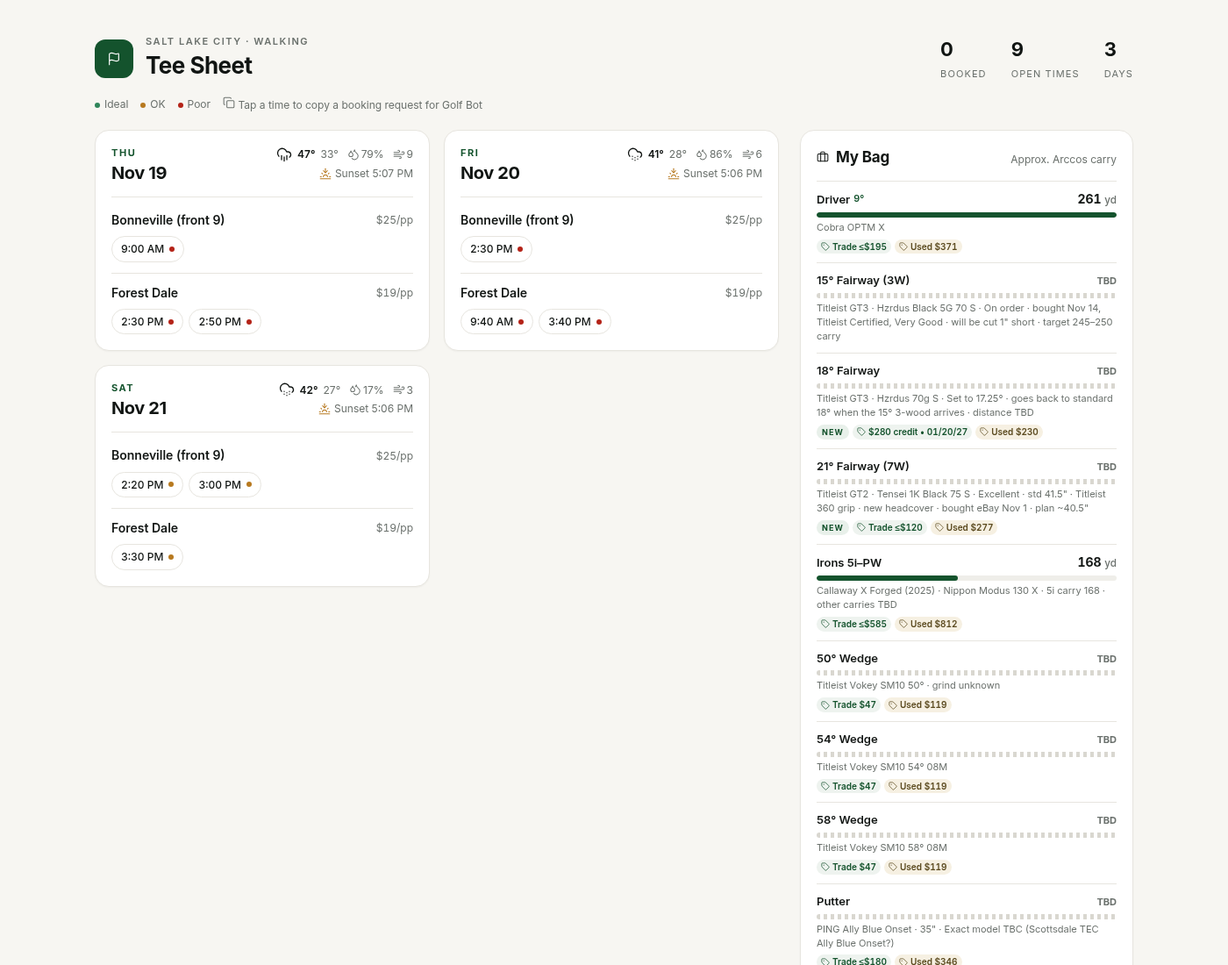
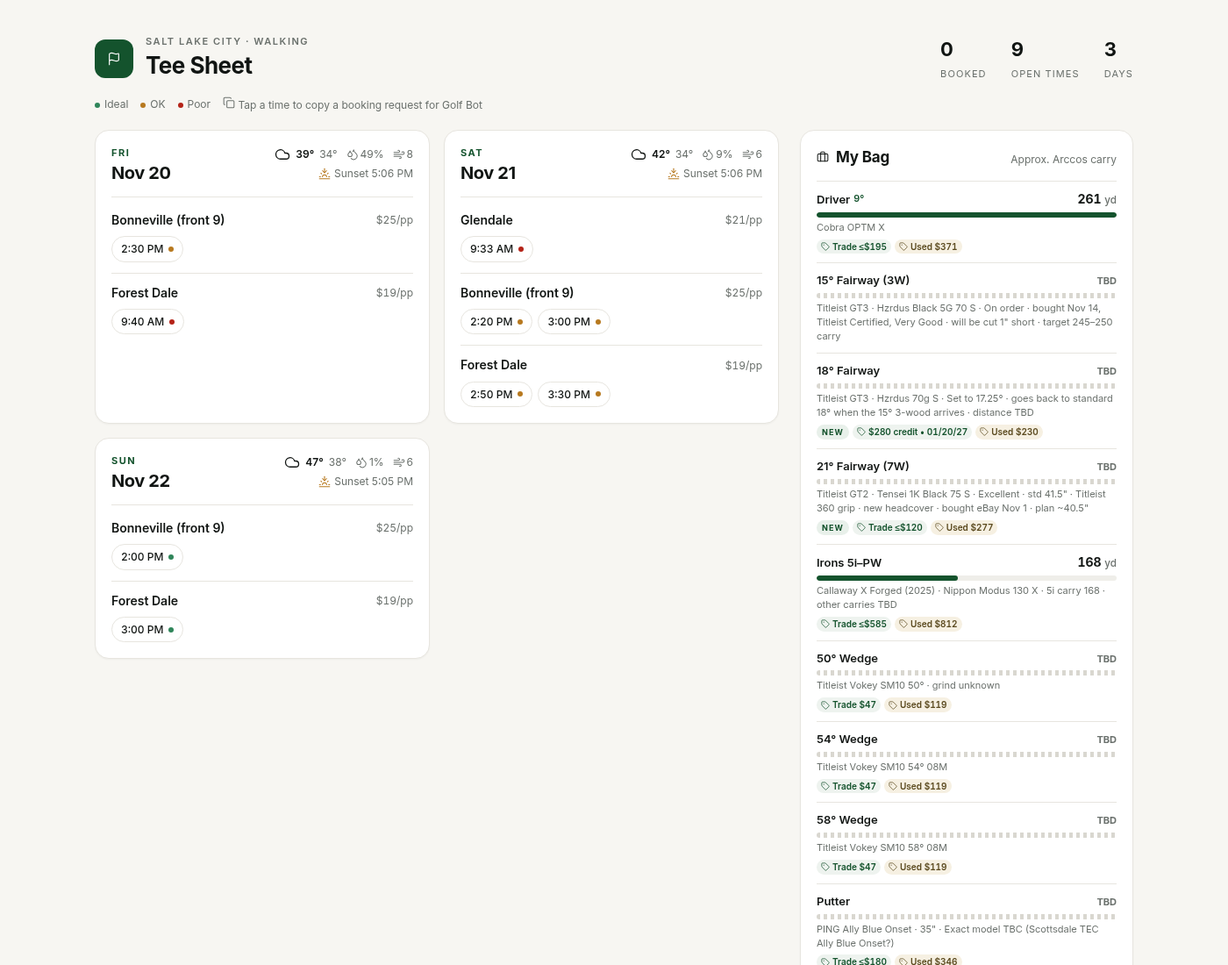
Update schedule 2026-11-19 20:24 MT

diff --git a/index.html b/index.html
@@ -49,8 +49,8 @@ ul{list-style:none;margin:0;padding:0}.ladder{border-top:1px solid var(--ln)}
 <div class="top"><div class="brand"><div class="logo"><i data-lucide="flag" class="ic "></i></div><div><div class="eyebrow">Salt Lake City · Walking</div><h1>Tee Sheet</h1></div></div>
 <div class="stats"><div class="stat"><b>0</b><span>Booked</span></div><div class="stat"><b>9</b><span>Open times</span></div><div class="stat"><b>3</b><span>Days</span></div></div></div>
 <div class="legend"><span><i class="dot ideal"></i>Ideal</span><span><i class="dot ok"></i>OK</span><span><i class="dot poor"></i>Poor</span><span><i data-lucide="copy" class="ic s"></i> Tap a time to copy a booking request for Golf Bot</span></div>
-<div class="layout"><div class="grid"><section class="card day"><header><div><div class="dow">Thu</div><div class="dt">Nov 19</div></div><div class="wxc"><div class="sum" title="🌧 Rain (7a–7p)"><i data-lucide="cloud-rain" class="ic "></i><span class="hi">47°</span><span class="lo">33°</span><span class="m"><i data-lucide="droplets" class="ic s"></i>79%</span><span class="m"><i data-lucide="wind" class="ic s"></i>9</span></div><div class="sun"><i data-lucide="sunset" class="ic s"></i>Sunset 5:07 PM</div></div></header><div class="crs"><div class="row"><span class="cn">Bonneville (front 9)</span><span class="pr">$25/pp</span></div><div class="tts"><button class="tt poor" data-msg="Book Bonneville (front 9) Thu Nov 19 9:00 AM" title="🌧 Rain · 47°F · 79% precip · 9 mph · tap to copy booking request" aria-label="Copy: Book Bonneville (front 9) Thu Nov 19 9:00 AM" onclick="cp(this)"><span>9:00 AM</span><i class="dot"></i></button></div></div><div class="crs"><div class="row"><span class="cn">Forest Dale</span><span class="pr">$19/pp</span></div><div class="tts"><button class="tt poor" data-msg="Book Forest Dale Thu Nov 19 2:30 PM" title="🌧 Rain · 47°F · 79% precip · 9 mph · tap to copy booking request" aria-label="Copy: Book Forest Dale Thu Nov 19 2:30 PM" onclick="cp(this)"><span>2:30 PM</span><i class="dot"></i></button><button class="tt poor" data-msg="Book Forest Dale Thu Nov 19 2:50 PM" title="🌧 Rain · 47°F · 79% precip · 9 mph · tap to copy booking request" aria-label="Copy: Book Forest Dale Thu Nov 19 2:50 PM" onclick="cp(this)"><span>2:50 PM</span><i class="dot"></i></button></div></div></section><section class="card day"><header><div><div class="dow">Fri</div><div class="dt">Nov 20</div></div><div class="wxc"><div class="sum" title="🌨 Snow (7a–7p)"><i data-lucide="cloud-snow" class="ic "></i><span class="hi">41°</span><span class="lo">28°</span><span class="m"><i data-lucide="droplets" class="ic s"></i>86%</span><span class="m"><i data-lucide="wind" class="ic s"></i>6</span></div><div class="sun"><i data-lucide="sunset" class="ic s"></i>Sunset 5:06 PM</div></div></header><div class="crs"><div class="row"><span class="cn">Bonneville (front 9)</span><span class="pr">$25/pp</span></div><div class="tts"><button class="tt poor" data-msg="Book Bonneville (front 9) Fri Nov 20 2:30 PM" title="🌨 Snow · 41°F · 86% precip · 6 mph · tap to copy booking request" aria-label="Copy: Book Bonneville (front 9) Fri Nov 20 2:30 PM" onclick="cp(this)"><span>2:30 PM</span><i class="dot"></i></button></div></div><div class="crs"><div class="row"><span class="cn">Forest Dale</span><span class="pr">$19/pp</span></div><div class="tts"><button class="tt poor" data-msg="Book Forest Dale Fri Nov 20 9:40 AM" title="🌨 Snow · 41°F · 86% precip · 6 mph · tap to copy booking request" aria-label="Copy: Book Forest Dale Fri Nov 20 9:40 AM" onclick="cp(this)"><span>9:40 AM</span><i class="dot"></i></button><button class="tt poor" data-msg="Book Forest Dale Fri Nov 20 3:40 PM" title="🌨 Snow · 41°F · 86% precip · 6 mph · tap to copy booking request" aria-label="Copy: Book Forest Dale Fri Nov 20 3:40 PM" onclick="cp(this)"><span>3:40 PM</span><i class="dot"></i></button></div></div></section><section class="card day"><header><div><div class="dow">Sat</div><div class="dt">Nov 21</div></div><div class="wxc"><div class="sum" title="🌨 Snow (7a–7p)"><i data-lucide="cloud-snow" class="ic "></i><span class="hi">42°</span><span class="lo">27°</span><span class="m"><i data-lucide="droplets" class="ic s"></i>17%</span><span class="m"><i data-lucide="wind" class="ic s"></i>3</span></div><div class="sun"><i data-lucide="sunset" class="ic s"></i>Sunset 5:06 PM</div></div></header><div class="crs"><div class="row"><span class="cn">Bonneville (front 9)</span><span class="pr">$25/pp</span></div><div class="tts"><button class="tt ok" data-msg="Book Bonneville (front 9) Sat Nov 21 2:20 PM" title="🌨 Snow · 42°F · 17% precip · 3 mph · tap to copy booking request" aria-label="Copy: Book Bonneville (front 9) Sat Nov 21 2:20 PM" onclick="cp(this)"><span>2:20 PM</span><i class="dot"></i></button><button class="tt ok" data-msg="Book Bonneville (front 9) Sat Nov 21 3:00 PM" title="🌨 Snow · 42°F · 17% precip · 3 mph · tap to copy booking request" aria-label="Copy: Book Bonneville (front 9) Sat Nov 21 3:00 PM" onclick="cp(this)"><span>3:00 PM</span><i class="dot"></i></button></div></div><div class="crs"><div class="row"><span class="cn">Forest Dale</span><span class="pr">$19/pp</span></div><div class="tts"><button class="tt ok" data-msg="Book Forest Dale Sat Nov 21 3:30 PM" title="🌨 Snow · 42°F · 17% precip · 3 mph · tap to copy booking request" aria-label="Copy: Book Forest Dale Sat Nov 21 3:30 PM" onclick="cp(this)"><span>3:30 PM</span><i class="dot"></i></button></div></div></section></div><section class="card bag"><header><h2><i data-lucide="briefcase" class="ic s"></i>My Bag</h2><span class="muted">Approx. Arccos carry</span></header><ul class="ladder"><li class="lad"><div class="l1"><div class="cname">Driver <small>9°</small></div><div class="yd">261 <small>yd</small></div></div><div class="bar"><span style="width:100%"></span></div><div class="muted">Cobra OPTM X</div><div class=bdg><span class="val" title="On in Two trade-in (up-to ceiling) · Cobra OPTM X driver · 2026-11-16"><i data-lucide="tag" class="ic xs"></i>Trade ≤$195</span><span class="val used" title="2nd Swing used OPTM X Stiff: 9° Mint $379.99 (Kai&#x27;li White 60), 10.5° Above Average $362.99 · 2026-11-02"><i data-lucide="tag" class="ic xs"></i>Used $371</span></div></li><li class="lad"><div class="l1"><div class="cname">15° Fairway (3W)</div><div class="yd muted">TBD</div></div><div class="bar tbd"><span></span></div><div class="muted">Titleist GT3 · Hzrdus Black 5G 70 S · On order · bought Nov 14, Titleist Certified, Very Good · will be cut 1&quot; short · target 245–250 carry</div></li><li class="lad"><div class="l1"><div class="cname">18° Fairway</div><div class="yd muted">TBD</div></div><div class="bar tbd"><span></span></div><div class="muted">Titleist GT3 · Hzrdus 70g S · Set to 17.25° · goes back to standard 18° when the 15° 3-wood arrives · distance TBD</div><div class=bdg><span class="pill sm">New</span><span class="val" title="Uinta Golf 90-day guarantee, bought Oct 22, 2026 · 2026-10-22"><i data-lucide="tag" class="ic xs"></i>$280 credit • 01/20/27</span><span class="val used" title="Global Golf used GT3 fairway Excellent $229.99; eBay sold GT3 18° 5W median $231 (Teeworth, 90 days) · 2026-10-26"><i data-lucide="tag" class="ic xs"></i>Used $230</span></div></li><li class="lad"><div class="l1"><div class="cname">21° Fairway (7W)</div><div class="yd muted">TBD</div></div><div class="bar tbd"><span></span></div><div class="muted">Titleist GT2 · Tensei 1K Black 75 S · Excellent · std 41.5&quot; · Titleist 360 grip · new headcover · bought eBay Nov 1 · plan ~40.5&quot;</div><div class=bdg><span class="pill sm">New</span><span class="val" title="On in Two trade-in (up-to ceiling, excellent) · Titleist GT2 fairway · 2026-11-16"><i data-lucide="tag" class="ic xs"></i>Trade ≤$120</span><span class="val used" title="Avg of Global Golf GT2 Very Good $264.99 and Next Round GT2 Excellent $289.99; eBay sold median $200 (45 sales, Face Value Golf) · 2026-10-26"><i data-lucide="tag" class="ic xs"></i>Used $277</span></div></li><li class="lad"><div class="l1"><div class="cname">Irons 5i–PW</div><div class="yd">168 <small>yd</small></div></div><div class="bar"><span style="width:47%"></span></div><div class="muted">Callaway X Forged (2025) · Nippon Modus 130 X · 5i carry 168 · other carries TBD</div><div class=bdg><span class="val" title="On in Two trade-in (up-to ceiling) · Callaway 2025 X Forged iron set; set composition/shaft not specified, so 5i–PW offer may differ · 2026-11-16"><i data-lucide="tag" class="ic xs"></i>Trade ≤$585</span><span class="val used" title="FairwayWire eBay sold avg, X Forged 2025 set (18 sales, mostly 4-PW, mixed shafts); Excellent/Very Good sales $986–$1,200 · 2026-10-26"><i data-lucide="tag" class="ic xs"></i>Used $812</span></div></li><li class="lad"><div class="l1"><div class="cname">50° Wedge</div><div class="yd muted">TBD</div></div><div class="bar tbd"><span></span></div><div class="muted">Titleist Vokey SM10 50° · grind unknown</div><div class=bdg><span class="val" title="2nd Swing store credit via Face Value Golf (SM10 family, avg cond., checked Nov 14); best cash $45–47 · 2026-11-16"><i data-lucide="tag" class="ic xs"></i>Trade $47</span><span class="val used" title="Titleist Certified Pre-Owned SM10 Excellent $119 · 2026-10-26"><i data-lucide="tag" class="ic xs"></i>Used $119</span></div></li><li class="lad"><div class="l1"><div class="cname">54° Wedge</div><div class="yd muted">TBD</div></div><div class="bar tbd"><span></span></div><div class="muted">Titleist Vokey SM10 54° 08M</div><div class=bdg><span class="val" title="2nd Swing store credit via Face Value Golf (SM10 family, avg cond., checked Nov 14); best cash $45–47 · 2026-11-16"><i data-lucide="tag" class="ic xs"></i>Trade $47</span><span class="val used" title="Titleist Certified Pre-Owned SM10 Excellent $119 · 2026-10-26"><i data-lucide="tag" class="ic xs"></i>Used $119</span></div></li><li class="lad"><div class="l1"><div class="cname">58° Wedge</div><div class="yd muted">TBD</div></div><div class="bar tbd"><span></span></div><div class="muted">Titleist Vokey SM10 58° 08M</div><div class=bdg><span class="val" title="2nd Swing store credit via Face Value Golf (SM10 family, avg cond., checked Nov 14); best cash $45–47 · 2026-11-16"><i data-lucide="tag" class="ic xs"></i>Trade $47</span><span class="val used" title="Titleist Certified Pre-Owned SM10 Excellent $119 · 2026-10-26"><i data-lucide="tag" class="ic xs"></i>Used $119</span></div></li><li class="lad"><div class="l1"><div class="cname">Putter</div><div class="yd muted">TBD</div></div><div class="bar tbd"><span></span></div><div class="muted">PING Ally Blue Onset · 35&quot; · Exact model TBC (Scottsdale TEC Ally Blue Onset?)</div><div class=bdg><span class="val" title="On in Two trade-in (up-to ceiling) · Scottsdale TEC Ally Blue Onset; PLD SE Ally Blue 4 Onset $185 · 2026-11-16"><i data-lucide="tag" class="ic xs"></i>Trade ≤$180</span><span class="val used" title="ClubChecks used target, Scottsdale TEC Ally Blue Onset; Carl&#x27;s Golfland 35&quot; Very Good $349.99 · 2026-10-26"><i data-lucide="tag" class="ic xs"></i>Used $346</span></div></li></ul><div class="subs"><div class="sub"><h3><i data-lucide="repeat" class="ic s"></i>Flagged to replace</h3><ul class="lst replace"><li><div class="it"><div class="l1"><div class="cname">Callaway X Forged irons</div></div><div class="muted">Considering trade for P7CB heads, same Modus 130 X</div><div class=bdg><span class="val" title="Jason: trade-in guarantee value, trade by Nov 15, 2026 (deadline approx., per Jason) · 2026-10-26"><i data-lucide="tag" class="ic xs"></i>$1400 credit • 11/15/26</span><span class="val used" title="FairwayWire eBay sold avg, X Forged 2025 set (18 sales, mostly 4-PW, mixed shafts); Excellent/Very Good sales $986–$1,200 · 2026-10-26"><i data-lucide="tag" class="ic xs"></i>Used $812</span></div></div></li></ul></div><div class="sub"><h3><i data-lucide="pause-circle" class="ic s"></i>Sidelined</h3><ul class="lst sidelined"><li><div class="it"><div class="l1"><div class="cname">Odyssey Jailbird Mini · slant neck 35&quot;</div></div><div class="muted">Keep, go back to, or trade?</div><div class=bdg><span class="val" title="On in Two trade-in ceilings: Ai-ONE Jailbird Mini S $95 – Ai-DUAL Jailbird Mini $105 (exact version TBC) · 2026-11-16"><i data-lucide="tag" class="ic xs"></i>Trade $95–105</span><span class="val used" title="Golf Club Index avg sold, Odyssey Ai-ONE Jailbird Mini (exact version TBC) · 2026-10-26"><i data-lucide="tag" class="ic xs"></i>Used $194</span></div></div></li><li><div class="it"><div class="l1"><div class="cname">3 Hybrid</div><div class=yd>195 <small>yd</small></div></div><div class="muted">Sidelined Nov 8, 2026 · was flagged to come out when the 21° GT goes in</div><div class=bdg><span class="val" title="On in Two trade-in (up-to ceiling) · 2026-11-16"><i data-lucide="tag" class="ic xs"></i>Trade ≤$70</span><span class="val used" title="Face Value Golf typical used asking, Paradym Super hybrid Above Average grade (Callaway Pre-Owned from $120 Avg) · 2026-10-26"><i data-lucide="tag" class="ic xs"></i>Used $178</span></div></div></li><li><div class="it"><div class="l1"><div class="cname">5 Hybrid</div><div class=yd>186 <small>yd</small></div></div><div class="muted">Sidelined Nov 15, 2026 · comes out when the 15° 3-wood goes in</div><div class=bdg><span class="val" title="On in Two trade-in (up-to ceiling) · 2026-11-16"><i data-lucide="tag" class="ic xs"></i>Trade ≤$70</span><span class="val used" title="Face Value Golf typical used asking, Paradym Super hybrid Above Average grade (Callaway Pre-Owned from $120 Avg) · 2026-10-26"><i data-lucide="tag" class="ic xs"></i>Used $178</span></div></div></li></ul></div><div class="sub"><h3><i data-lucide="plus-circle" class="ic s"></i>Interested in adding</h3><ul class="lst add"><li><div class="it"><div class="l1"><div class="cname">TaylorMade P7CB irons</div></div><div class="muted">Same Modus 130 X shafts</div><div class=bdg><span class="val" title="Face Value Golf: best cash offer, iGolf Value Guide, 7-club set, Average ($61.50/club), checked Oct 11 · 2026-10-26"><i data-lucide="tag" class="ic xs"></i>Trade $431 set</span><span class="val used" title="Face Value Golf typical used asking, 7-club set, median of 44 listings (Average or better), checked Oct 11; Global Golf Average 4-PW $760 · 2026-10-26"><i data-lucide="tag" class="ic xs"></i>Used $859</span></div></div></li><li><div class="it"><div class="l1"><div class="cname">Titleist Vokey SM10 46° 10F</div></div><div class="muted">Backup PW option if the X Forged PW doesn&#x27;t work out or gets damaged; not in the bag</div><div class=bdg><span class="val" title="2nd Swing store credit via Face Value Golf (SM10 family, avg cond.) · 2026-10-23"><i data-lucide="tag" class="ic xs"></i>Trade $47</span><span class="val used" title="Titleist Certified Pre-Owned SM10 Excellent $119 · 2026-10-26"><i data-lucide="tag" class="ic xs"></i>Used $119</span></div></div></li></ul></div><div class="sub"><h3><i data-lucide="archive" class="ic s"></i>Retired</h3><ul class="lst retired"><li><div class="it"><div class="l1"><div class="cname">Paradym Ai Smoke Max 3W</div></div><div class="muted">~211 yd, right miss · traded in for GT3 18° at Uinta Golf, Oct 2026</div></div></li></ul></div></div></section></div><section class="card lenchart"><header><h2><i data-lucide="ruler" class="ic s"></i>Titleist GT/GTS woods + GT1 hybrid lengths</h2></header><div class="tw"><table><thead><tr><th>Loft</th><th>Club</th><th>Models</th><th>Std</th><th>−½"</th><th>−1"</th></tr></thead><tbody><tr><td>13.5°</td><td>3-wood</td><td class="muted">GT2, GTS2</td><td>43"</td><td>42.5"</td><td>42"</td></tr><tr><td>15°</td><td>3-wood</td><td class="muted">GT1, GT2, GT3, GTS</td><td>43"</td><td>42.5"</td><td>42"</td></tr><tr><td>16.5°</td><td>4-wood</td><td class="muted">GT2, GT3, GTS</td><td>43"</td><td>42.5"</td><td>42"</td></tr><tr class="inbag"><td>18°</td><td>5-wood (mine, GT3) <span class="mtag">In bag</span></td><td class="muted">GT1, GT2, GT3, GTS</td><td>42"</td><td class=hl>41.5"</td><td>41"</td></tr><tr><td>20°</td><td>4-hybrid</td><td class="muted">GT1 hybrid</td><td>40.5"</td><td>40"</td><td>39.5"</td></tr><tr class="inbag"><td>21°</td><td>7-wood <span class="mtag">In bag</span></td><td class="muted">GT1, GT2, GTS</td><td>41.5"</td><td>41"</td><td class=hl>40.5"</td></tr><tr class="target"><td>23°</td><td>5-hybrid <span class="mtag">Target</span> <span class="muted">set to 24.5°</span></td><td class="muted">GT1 hybrid</td><td>40"</td><td>39.5"</td><td>39"</td></tr><tr class="target"><td>24°</td><td>9-wood <span class="mtag">Target</span></td><td class="muted">GT1 only</td><td>41"</td><td>40.5"</td><td class=hl>40"</td></tr><tr><td>26°</td><td>6-hybrid</td><td class="muted">GT1 hybrid</td><td>39.5"</td><td>39"</td><td>38.5"</td></tr><tr><td>29°</td><td>7-hybrid</td><td class="muted">GT1 hybrid</td><td>39"</td><td>38.5"</td><td>38"</td></tr></tbody></table></div><p class="muted">Row marks: In bag (GT3 18° 5-wood, GT2 21° 7-wood set 22.5°) and Target (GT1 23° hybrid set 24.5°, GT1 24° 9-wood). Highlighted cells = shortening plan in ~½" steps (5-wood 41.5", 7-wood ~40.5" or 9-wood ~40"). GT1 23° hybrid is already 40" stock. Add ~2g head weight per ½" cut. GT1 hybrids ship with a .335" fairway tip unless custom-ordered with .370". Source: Titleist specs.</p></section>
-<div class="foot"><i data-lucide="refresh-cw" class="ic s"></i>Updated Thu Nov 19 · 10:56 AM MT · Checked 7:30 AM MST Nov 19. Chronogolf Upcoming empty. Thursday: Bonneville 9:00 AM (single only); Forest Dale 2:30 PM (1–2) and 2:50 PM (single only); Glendale is sold out. Friday: Bonneville 2:30 PM (single only); Forest Dale 9:40 AM and 3:40 PM (1–2); Glendale only has 2+ slots. Saturday: Bonneville 2:20 PM and 3:00 PM (1–2); Forest Dale 3:30 PM (1–2); Glendale only has 2+ slots. Mick Riley is closed for the off season. Walking vs cart not shown. ForeUp unverified. · Weather: NWS</div></div>
+<div class="layout"><div class="grid"><section class="card day"><header><div><div class="dow">Fri</div><div class="dt">Nov 20</div></div><div class="wxc"><div class="sum" title="☁ Overcast (7a–7p)"><i data-lucide="cloud" class="ic "></i><span class="hi">39°</span><span class="lo">34°</span><span class="m"><i data-lucide="droplets" class="ic s"></i>49%</span><span class="m"><i data-lucide="wind" class="ic s"></i>8</span></div><div class="sun"><i data-lucide="sunset" class="ic s"></i>Sunset 5:06 PM</div></div></header><div class="crs"><div class="row"><span class="cn">Bonneville (front 9)</span><span class="pr">$25/pp</span></div><div class="tts"><button class="tt ok" data-msg="Book Bonneville (front 9) Fri Nov 20 2:30 PM" title="☁ Overcast · 39°F · 14% precip · 5 mph · tap to copy booking request" aria-label="Copy: Book Bonneville (front 9) Fri Nov 20 2:30 PM" onclick="cp(this)"><span>2:30 PM</span><i class="dot"></i></button></div></div><div class="crs"><div class="row"><span class="cn">Forest Dale</span><span class="pr">$19/pp</span></div><div class="tts"><button class="tt poor" data-msg="Book Forest Dale Fri Nov 20 9:40 AM" title="☁ Overcast · 38°F · 22% precip · 2 mph · tap to copy booking request" aria-label="Copy: Book Forest Dale Fri Nov 20 9:40 AM" onclick="cp(this)"><span>9:40 AM</span><i class="dot"></i></button></div></div></section><section class="card day"><header><div><div class="dow">Sat</div><div class="dt">Nov 21</div></div><div class="wxc"><div class="sum" title="☁ Overcast (7a–7p)"><i data-lucide="cloud" class="ic "></i><span class="hi">42°</span><span class="lo">34°</span><span class="m"><i data-lucide="droplets" class="ic s"></i>9%</span><span class="m"><i data-lucide="wind" class="ic s"></i>6</span></div><div class="sun"><i data-lucide="sunset" class="ic s"></i>Sunset 5:06 PM</div></div></header><div class="crs"><div class="row"><span class="cn">Glendale</span><span class="pr">$21/pp</span></div><div class="tts"><button class="tt poor" data-msg="Book Glendale Sat Nov 21 9:33 AM" title="☁ Overcast · 36°F · 9% precip · 3 mph · tap to copy booking request" aria-label="Copy: Book Glendale Sat Nov 21 9:33 AM" onclick="cp(this)"><span>9:33 AM</span><i class="dot"></i></button></div></div><div class="crs"><div class="row"><span class="cn">Bonneville (front 9)</span><span class="pr">$25/pp</span></div><div class="tts"><button class="tt ok" data-msg="Book Bonneville (front 9) Sat Nov 21 2:20 PM" title="☀ Clear · 41°F · 1% precip · 3 mph · tap to copy booking request" aria-label="Copy: Book Bonneville (front 9) Sat Nov 21 2:20 PM" onclick="cp(this)"><span>2:20 PM</span><i class="dot"></i></button><button class="tt ok" data-msg="Book Bonneville (front 9) Sat Nov 21 3:00 PM" title="🌤 Mostly clear · 42°F · 1% precip · 4 mph · tap to copy booking request" aria-label="Copy: Book Bonneville (front 9) Sat Nov 21 3:00 PM" onclick="cp(this)"><span>3:00 PM</span><i class="dot"></i></button></div></div><div class="crs"><div class="row"><span class="cn">Forest Dale</span><span class="pr">$19/pp</span></div><div class="tts"><button class="tt ok" data-msg="Book Forest Dale Sat Nov 21 2:50 PM" title="☀ Clear · 41°F · 1% precip · 3 mph · tap to copy booking request" aria-label="Copy: Book Forest Dale Sat Nov 21 2:50 PM" onclick="cp(this)"><span>2:50 PM</span><i class="dot"></i></button><button class="tt ok" data-msg="Book Forest Dale Sat Nov 21 3:30 PM" title="🌤 Mostly clear · 42°F · 1% precip · 4 mph · tap to copy booking request" aria-label="Copy: Book Forest Dale Sat Nov 21 3:30 PM" onclick="cp(this)"><span>3:30 PM</span><i class="dot"></i></button></div></div></section><section class="card day"><header><div><div class="dow">Sun</div><div class="dt">Nov 22</div></div><div class="wxc"><div class="sum" title="☁ Overcast (7a–7p)"><i data-lucide="cloud" class="ic "></i><span class="hi">47°</span><span class="lo">38°</span><span class="m"><i data-lucide="droplets" class="ic s"></i>1%</span><span class="m"><i data-lucide="wind" class="ic s"></i>6</span></div><div class="sun"><i data-lucide="sunset" class="ic s"></i>Sunset 5:05 PM</div></div></header><div class="crs"><div class="row"><span class="cn">Bonneville (front 9)</span><span class="pr">$25/pp</span></div><div class="tts"><button class="tt ideal" data-msg="Book Bonneville (front 9) Sun Nov 22 2:00 PM" title="☁ Overcast · 47°F · 0% precip · 6 mph · tap to copy booking request" aria-label="Copy: Book Bonneville (front 9) Sun Nov 22 2:00 PM" onclick="cp(this)"><span>2:00 PM</span><i class="dot"></i></button></div></div><div class="crs"><div class="row"><span class="cn">Forest Dale</span><span class="pr">$19/pp</span></div><div class="tts"><button class="tt ideal" data-msg="Book Forest Dale Sun Nov 22 3:00 PM" title="☁ Overcast · 47°F · 0% precip · 5 mph · tap to copy booking request" aria-label="Copy: Book Forest Dale Sun Nov 22 3:00 PM" onclick="cp(this)"><span>3:00 PM</span><i class="dot"></i></button></div></div></section></div><section class="card bag"><header><h2><i data-lucide="briefcase" class="ic s"></i>My Bag</h2><span class="muted">Approx. Arccos carry</span></header><ul class="ladder"><li class="lad"><div class="l1"><div class="cname">Driver <small>9°</small></div><div class="yd">261 <small>yd</small></div></div><div class="bar"><span style="width:100%"></span></div><div class="muted">Cobra OPTM X</div><div class=bdg><span class="val" title="On in Two trade-in (up-to ceiling) · Cobra OPTM X driver · 2026-11-16"><i data-lucide="tag" class="ic xs"></i>Trade ≤$195</span><span class="val used" title="2nd Swing used OPTM X Stiff: 9° Mint $379.99 (Kai&#x27;li White 60), 10.5° Above Average $362.99 · 2026-11-02"><i data-lucide="tag" class="ic xs"></i>Used $371</span></div></li><li class="lad"><div class="l1"><div class="cname">15° Fairway (3W)</div><div class="yd muted">TBD</div></div><div class="bar tbd"><span></span></div><div class="muted">Titleist GT3 · Hzrdus Black 5G 70 S · On order · bought Nov 14, Titleist Certified, Very Good · will be cut 1&quot; short · target 245–250 carry</div></li><li class="lad"><div class="l1"><div class="cname">18° Fairway</div><div class="yd muted">TBD</div></div><div class="bar tbd"><span></span></div><div class="muted">Titleist GT3 · Hzrdus 70g S · Set to 17.25° · goes back to standard 18° when the 15° 3-wood arrives · distance TBD</div><div class=bdg><span class="pill sm">New</span><span class="val" title="Uinta Golf 90-day guarantee, bought Oct 22, 2026 · 2026-10-22"><i data-lucide="tag" class="ic xs"></i>$280 credit • 01/20/27</span><span class="val used" title="Global Golf used GT3 fairway Excellent $229.99; eBay sold GT3 18° 5W median $231 (Teeworth, 90 days) · 2026-10-26"><i data-lucide="tag" class="ic xs"></i>Used $230</span></div></li><li class="lad"><div class="l1"><div class="cname">21° Fairway (7W)</div><div class="yd muted">TBD</div></div><div class="bar tbd"><span></span></div><div class="muted">Titleist GT2 · Tensei 1K Black 75 S · Excellent · std 41.5&quot; · Titleist 360 grip · new headcover · bought eBay Nov 1 · plan ~40.5&quot;</div><div class=bdg><span class="pill sm">New</span><span class="val" title="On in Two trade-in (up-to ceiling, excellent) · Titleist GT2 fairway · 2026-11-16"><i data-lucide="tag" class="ic xs"></i>Trade ≤$120</span><span class="val used" title="Avg of Global Golf GT2 Very Good $264.99 and Next Round GT2 Excellent $289.99; eBay sold median $200 (45 sales, Face Value Golf) · 2026-10-26"><i data-lucide="tag" class="ic xs"></i>Used $277</span></div></li><li class="lad"><div class="l1"><div class="cname">Irons 5i–PW</div><div class="yd">168 <small>yd</small></div></div><div class="bar"><span style="width:47%"></span></div><div class="muted">Callaway X Forged (2025) · Nippon Modus 130 X · 5i carry 168 · other carries TBD</div><div class=bdg><span class="val" title="On in Two trade-in (up-to ceiling) · Callaway 2025 X Forged iron set; set composition/shaft not specified, so 5i–PW offer may differ · 2026-11-16"><i data-lucide="tag" class="ic xs"></i>Trade ≤$585</span><span class="val used" title="FairwayWire eBay sold avg, X Forged 2025 set (18 sales, mostly 4-PW, mixed shafts); Excellent/Very Good sales $986–$1,200 · 2026-10-26"><i data-lucide="tag" class="ic xs"></i>Used $812</span></div></li><li class="lad"><div class="l1"><div class="cname">50° Wedge</div><div class="yd muted">TBD</div></div><div class="bar tbd"><span></span></div><div class="muted">Titleist Vokey SM10 50° · grind unknown</div><div class=bdg><span class="val" title="2nd Swing store credit via Face Value Golf (SM10 family, avg cond., checked Nov 14); best cash $45–47 · 2026-11-16"><i data-lucide="tag" class="ic xs"></i>Trade $47</span><span class="val used" title="Titleist Certified Pre-Owned SM10 Excellent $119 · 2026-10-26"><i data-lucide="tag" class="ic xs"></i>Used $119</span></div></li><li class="lad"><div class="l1"><div class="cname">54° Wedge</div><div class="yd muted">TBD</div></div><div class="bar tbd"><span></span></div><div class="muted">Titleist Vokey SM10 54° 08M</div><div class=bdg><span class="val" title="2nd Swing store credit via Face Value Golf (SM10 family, avg cond., checked Nov 14); best cash $45–47 · 2026-11-16"><i data-lucide="tag" class="ic xs"></i>Trade $47</span><span class="val used" title="Titleist Certified Pre-Owned SM10 Excellent $119 · 2026-10-26"><i data-lucide="tag" class="ic xs"></i>Used $119</span></div></li><li class="lad"><div class="l1"><div class="cname">58° Wedge</div><div class="yd muted">TBD</div></div><div class="bar tbd"><span></span></div><div class="muted">Titleist Vokey SM10 58° 08M</div><div class=bdg><span class="val" title="2nd Swing store credit via Face Value Golf (SM10 family, avg cond., checked Nov 14); best cash $45–47 · 2026-11-16"><i data-lucide="tag" class="ic xs"></i>Trade $47</span><span class="val used" title="Titleist Certified Pre-Owned SM10 Excellent $119 · 2026-10-26"><i data-lucide="tag" class="ic xs"></i>Used $119</span></div></li><li class="lad"><div class="l1"><div class="cname">Putter</div><div class="yd muted">TBD</div></div><div class="bar tbd"><span></span></div><div class="muted">PING Ally Blue Onset · 35&quot; · Exact model TBC (Scottsdale TEC Ally Blue Onset?)</div><div class=bdg><span class="val" title="On in Two trade-in (up-to ceiling) · Scottsdale TEC Ally Blue Onset; PLD SE Ally Blue 4 Onset $185 · 2026-11-16"><i data-lucide="tag" class="ic xs"></i>Trade ≤$180</span><span class="val used" title="ClubChecks used target, Scottsdale TEC Ally Blue Onset; Carl&#x27;s Golfland 35&quot; Very Good $349.99 · 2026-10-26"><i data-lucide="tag" class="ic xs"></i>Used $346</span></div></li></ul><div class="subs"><div class="sub"><h3><i data-lucide="repeat" class="ic s"></i>Flagged to replace</h3><ul class="lst replace"><li><div class="it"><div class="l1"><div class="cname">Callaway X Forged irons</div></div><div class="muted">Considering trade for P7CB heads, same Modus 130 X</div><div class=bdg><span class="val" title="Jason: trade-in guarantee value, trade by Nov 15, 2026 (deadline approx., per Jason) · 2026-10-26"><i data-lucide="tag" class="ic xs"></i>$1400 credit • 11/15/26</span><span class="val used" title="FairwayWire eBay sold avg, X Forged 2025 set (18 sales, mostly 4-PW, mixed shafts); Excellent/Very Good sales $986–$1,200 · 2026-10-26"><i data-lucide="tag" class="ic xs"></i>Used $812</span></div></div></li></ul></div><div class="sub"><h3><i data-lucide="pause-circle" class="ic s"></i>Sidelined</h3><ul class="lst sidelined"><li><div class="it"><div class="l1"><div class="cname">Odyssey Jailbird Mini · slant neck 35&quot;</div></div><div class="muted">Keep, go back to, or trade?</div><div class=bdg><span class="val" title="On in Two trade-in ceilings: Ai-ONE Jailbird Mini S $95 – Ai-DUAL Jailbird Mini $105 (exact version TBC) · 2026-11-16"><i data-lucide="tag" class="ic xs"></i>Trade $95–105</span><span class="val used" title="Golf Club Index avg sold, Odyssey Ai-ONE Jailbird Mini (exact version TBC) · 2026-10-26"><i data-lucide="tag" class="ic xs"></i>Used $194</span></div></div></li><li><div class="it"><div class="l1"><div class="cname">3 Hybrid</div><div class=yd>195 <small>yd</small></div></div><div class="muted">Sidelined Nov 8, 2026 · was flagged to come out when the 21° GT goes in</div><div class=bdg><span class="val" title="On in Two trade-in (up-to ceiling) · 2026-11-16"><i data-lucide="tag" class="ic xs"></i>Trade ≤$70</span><span class="val used" title="Face Value Golf typical used asking, Paradym Super hybrid Above Average grade (Callaway Pre-Owned from $120 Avg) · 2026-10-26"><i data-lucide="tag" class="ic xs"></i>Used $178</span></div></div></li><li><div class="it"><div class="l1"><div class="cname">5 Hybrid</div><div class=yd>186 <small>yd</small></div></div><div class="muted">Sidelined Nov 15, 2026 · comes out when the 15° 3-wood goes in</div><div class=bdg><span class="val" title="On in Two trade-in (up-to ceiling) · 2026-11-16"><i data-lucide="tag" class="ic xs"></i>Trade ≤$70</span><span class="val used" title="Face Value Golf typical used asking, Paradym Super hybrid Above Average grade (Callaway Pre-Owned from $120 Avg) · 2026-10-26"><i data-lucide="tag" class="ic xs"></i>Used $178</span></div></div></li></ul></div><div class="sub"><h3><i data-lucide="plus-circle" class="ic s"></i>Interested in adding</h3><ul class="lst add"><li><div class="it"><div class="l1"><div class="cname">TaylorMade P7CB irons</div></div><div class="muted">Same Modus 130 X shafts</div><div class=bdg><span class="val" title="Face Value Golf: best cash offer, iGolf Value Guide, 7-club set, Average ($61.50/club), checked Oct 11 · 2026-10-26"><i data-lucide="tag" class="ic xs"></i>Trade $431 set</span><span class="val used" title="Face Value Golf typical used asking, 7-club set, median of 44 listings (Average or better), checked Oct 11; Global Golf Average 4-PW $760 · 2026-10-26"><i data-lucide="tag" class="ic xs"></i>Used $859</span></div></div></li><li><div class="it"><div class="l1"><div class="cname">Titleist Vokey SM10 46° 10F</div></div><div class="muted">Backup PW option if the X Forged PW doesn&#x27;t work out or gets damaged; not in the bag</div><div class=bdg><span class="val" title="2nd Swing store credit via Face Value Golf (SM10 family, avg cond.) · 2026-10-23"><i data-lucide="tag" class="ic xs"></i>Trade $47</span><span class="val used" title="Titleist Certified Pre-Owned SM10 Excellent $119 · 2026-10-26"><i data-lucide="tag" class="ic xs"></i>Used $119</span></div></div></li></ul></div><div class="sub"><h3><i data-lucide="archive" class="ic s"></i>Retired</h3><ul class="lst retired"><li><div class="it"><div class="l1"><div class="cname">Paradym Ai Smoke Max 3W</div></div><div class="muted">~211 yd, right miss · traded in for GT3 18° at Uinta Golf, Oct 2026</div></div></li></ul></div></div></section></div><section class="card lenchart"><header><h2><i data-lucide="ruler" class="ic s"></i>Titleist GT/GTS woods + GT1 hybrid lengths</h2></header><div class="tw"><table><thead><tr><th>Loft</th><th>Club</th><th>Models</th><th>Std</th><th>−½"</th><th>−1"</th></tr></thead><tbody><tr><td>13.5°</td><td>3-wood</td><td class="muted">GT2, GTS2</td><td>43"</td><td>42.5"</td><td>42"</td></tr><tr><td>15°</td><td>3-wood</td><td class="muted">GT1, GT2, GT3, GTS</td><td>43"</td><td>42.5"</td><td>42"</td></tr><tr><td>16.5°</td><td>4-wood</td><td class="muted">GT2, GT3, GTS</td><td>43"</td><td>42.5"</td><td>42"</td></tr><tr class="inbag"><td>18°</td><td>5-wood (mine, GT3) <span class="mtag">In bag</span></td><td class="muted">GT1, GT2, GT3, GTS</td><td>42"</td><td class=hl>41.5"</td><td>41"</td></tr><tr><td>20°</td><td>4-hybrid</td><td class="muted">GT1 hybrid</td><td>40.5"</td><td>40"</td><td>39.5"</td></tr><tr class="inbag"><td>21°</td><td>7-wood <span class="mtag">In bag</span></td><td class="muted">GT1, GT2, GTS</td><td>41.5"</td><td>41"</td><td class=hl>40.5"</td></tr><tr class="target"><td>23°</td><td>5-hybrid <span class="mtag">Target</span> <span class="muted">set to 24.5°</span></td><td class="muted">GT1 hybrid</td><td>40"</td><td>39.5"</td><td>39"</td></tr><tr class="target"><td>24°</td><td>9-wood <span class="mtag">Target</span></td><td class="muted">GT1 only</td><td>41"</td><td>40.5"</td><td class=hl>40"</td></tr><tr><td>26°</td><td>6-hybrid</td><td class="muted">GT1 hybrid</td><td>39.5"</td><td>39"</td><td>38.5"</td></tr><tr><td>29°</td><td>7-hybrid</td><td class="muted">GT1 hybrid</td><td>39"</td><td>38.5"</td><td>38"</td></tr></tbody></table></div><p class="muted">Row marks: In bag (GT3 18° 5-wood, GT2 21° 7-wood set 22.5°) and Target (GT1 23° hybrid set 24.5°, GT1 24° 9-wood). Highlighted cells = shortening plan in ~½" steps (5-wood 41.5", 7-wood ~40.5" or 9-wood ~40"). GT1 23° hybrid is already 40" stock. Add ~2g head weight per ½" cut. GT1 hybrids ship with a .335" fairway tip unless custom-ordered with .370". Source: Titleist specs.</p></section>
+<div class="foot"><i data-lucide="refresh-cw" class="ic s"></i>Updated Thu Nov 19 · 8:23 PM MT · Checked 8:22 PM MST Nov 19. Chronogolf Upcoming empty. Times on the sheet take 1 or 1–2 players. Friday: Bonneville 2:30 PM (single only); Forest Dale 9:40 AM (1–2). Other Friday slots need 2+: Glendale front 9:24–9:51 AM and 2:03–2:57 PM; Bonneville front 2:00–3:00 PM except 2:30; Bonneville 10th tee 9:40 and 9:50 AM; Forest Dale 9:50 AM and 2:00–3:30 PM. Saturday: Glendale 9:33 AM (single only); Bonneville 2:20 and 3:00 PM (1–2); Forest Dale 2:50 and 3:30 PM (1–2). Saturday 2+: Glendale 2:03–2:57 PM; Bonneville 2:00, 2:30, 2:40, 2:50; Forest Dale 3:10, 3:20, 3:40. Sunday: Bonneville 2:00 PM (1–2); Forest Dale 3:00 PM (1–2). Sunday 2+: Glendale 2:03–2:57 PM; Bonneville 2:20–3:00 PM; Forest Dale 3:10–3:30 PM. Mick Riley is closed for the off season. Walking vs cart not shown. ForeUp unverified. · Weather: Open-Meteo</div></div>
 <div class="toast" id="toast" role="status"><i data-lucide="check" class="ic s"></i><span>Copied — paste in Golf Bot chat</span></div>
 <script>
 function cp(b){navigator.clipboard&&navigator.clipboard.writeText(b.dataset.msg);b.classList.add('copied');const t=document.getElementById('toast');t.classList.add('on');setTimeout(()=>{b.classList.remove('copied');t.classList.remove('on')},1600)}
